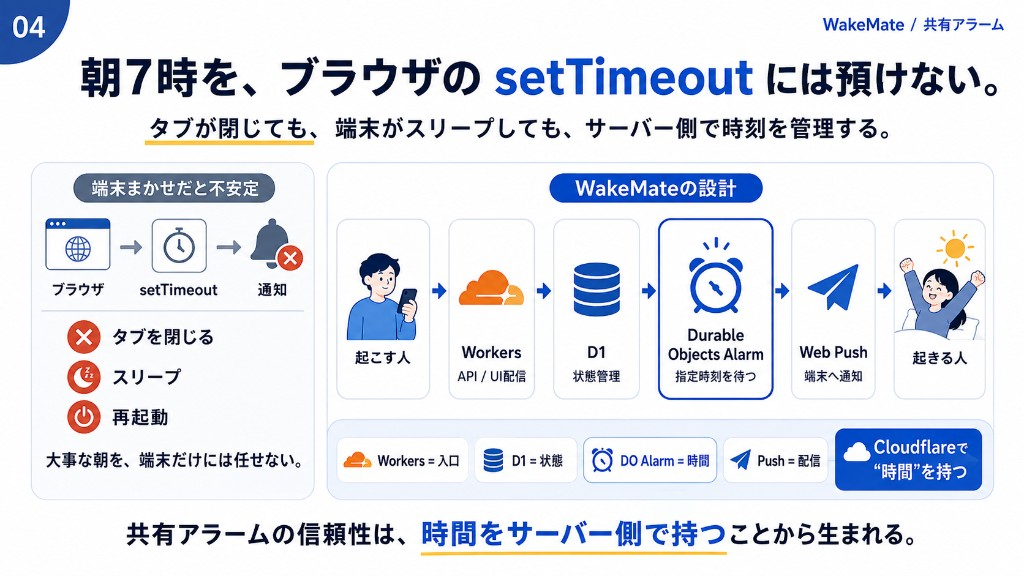
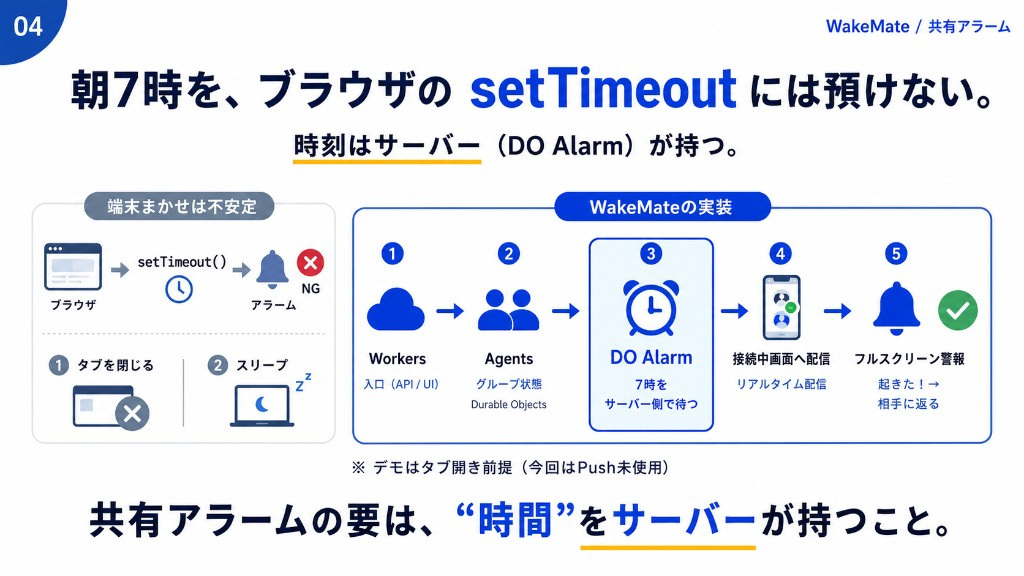
Update tech slide PNG to match Agents/realtime implementation.

diff --git a/docs/slides/README.md b/docs/slides/README.md
@@ -11,31 +11,21 @@
 | 01 | `01-problem.png` | 課題 | 大事な朝ほど、自分アラームだけだと不安 |
 | 02 | `02-solution.png` | 解決 | アラームを「自分の設定」から「誰かとの約束」へ |
 | 03 | `03-must-flow.png` | Must UI | 招待→セット→通知→起きた！まで一本 |
-| 04 | `04-tech.png` | 技術 | **下の訂正を口頭で言う**（図は旧案） |
+| 04 | `04-tech.png` | 技術 | Agents の schedule + setState。開いてるタブへリアルタイム |
 | 05 | `05-scope.png` | スコープ | 機能を足すより Must を完成させた |
 | 06 | `06-brand.png` | 締め | 大事な朝は、信頼できる人が起こす |
 
-## TECH CORRECTION（スライド 04）
+## スライド 04（技術）メモ
 
-PNG の図は **D1（状態）+ Web Push（端末通知）** になっているが、**実装・仕様書と不一致**。
+図は実装どおり（Agents / DO Alarm / 開いているタブへのリアルタイム。D1・Web Push なし）。デモ前提として両方タブを開いておく旨も図にある。
 
-| 図の表記 | 実際（言うこと） |
-|----------|------------------|
-| D1 で状態管理 | **Agents の `setState`（Durable Objects 内）** |
-| Web Push で通知 | **接続中タブへリアルタイム配信 + フルスクリーン警報**（Push なし） |
-| Durable Objects Alarm | **Agents の `schedule(発火時刻)`**（ここは方向性OK） |
-
-口頭の正:
+口頭の流れ（任意）:
 
 1. アラーム作成で Agent の `schedule(発火時刻)`
 2. 発火で `status = fired` → `setState` で接続中クライアントへ
 3. 「起きた！」/ timed_out も同じ仕組み
 4. デモ前提: **両方タブを開いておく**（Push は Won't）
 
-**言わない**: 「D1に保存」「Web Pushで起こす」  
-デモ前に図を差し替えるか、04 を見せつつ「実装は Agents の schedule + setState。Push/D1 は切った」と訂正する。
-
 ## 補足
 
 - 03 の「ロック画面通知」モックも理想寄り。本番デモは開いているタブ上のフルスクリーン警報。
-- 再生前に図を直すなら、04 だけ差し替えれば足りる。
